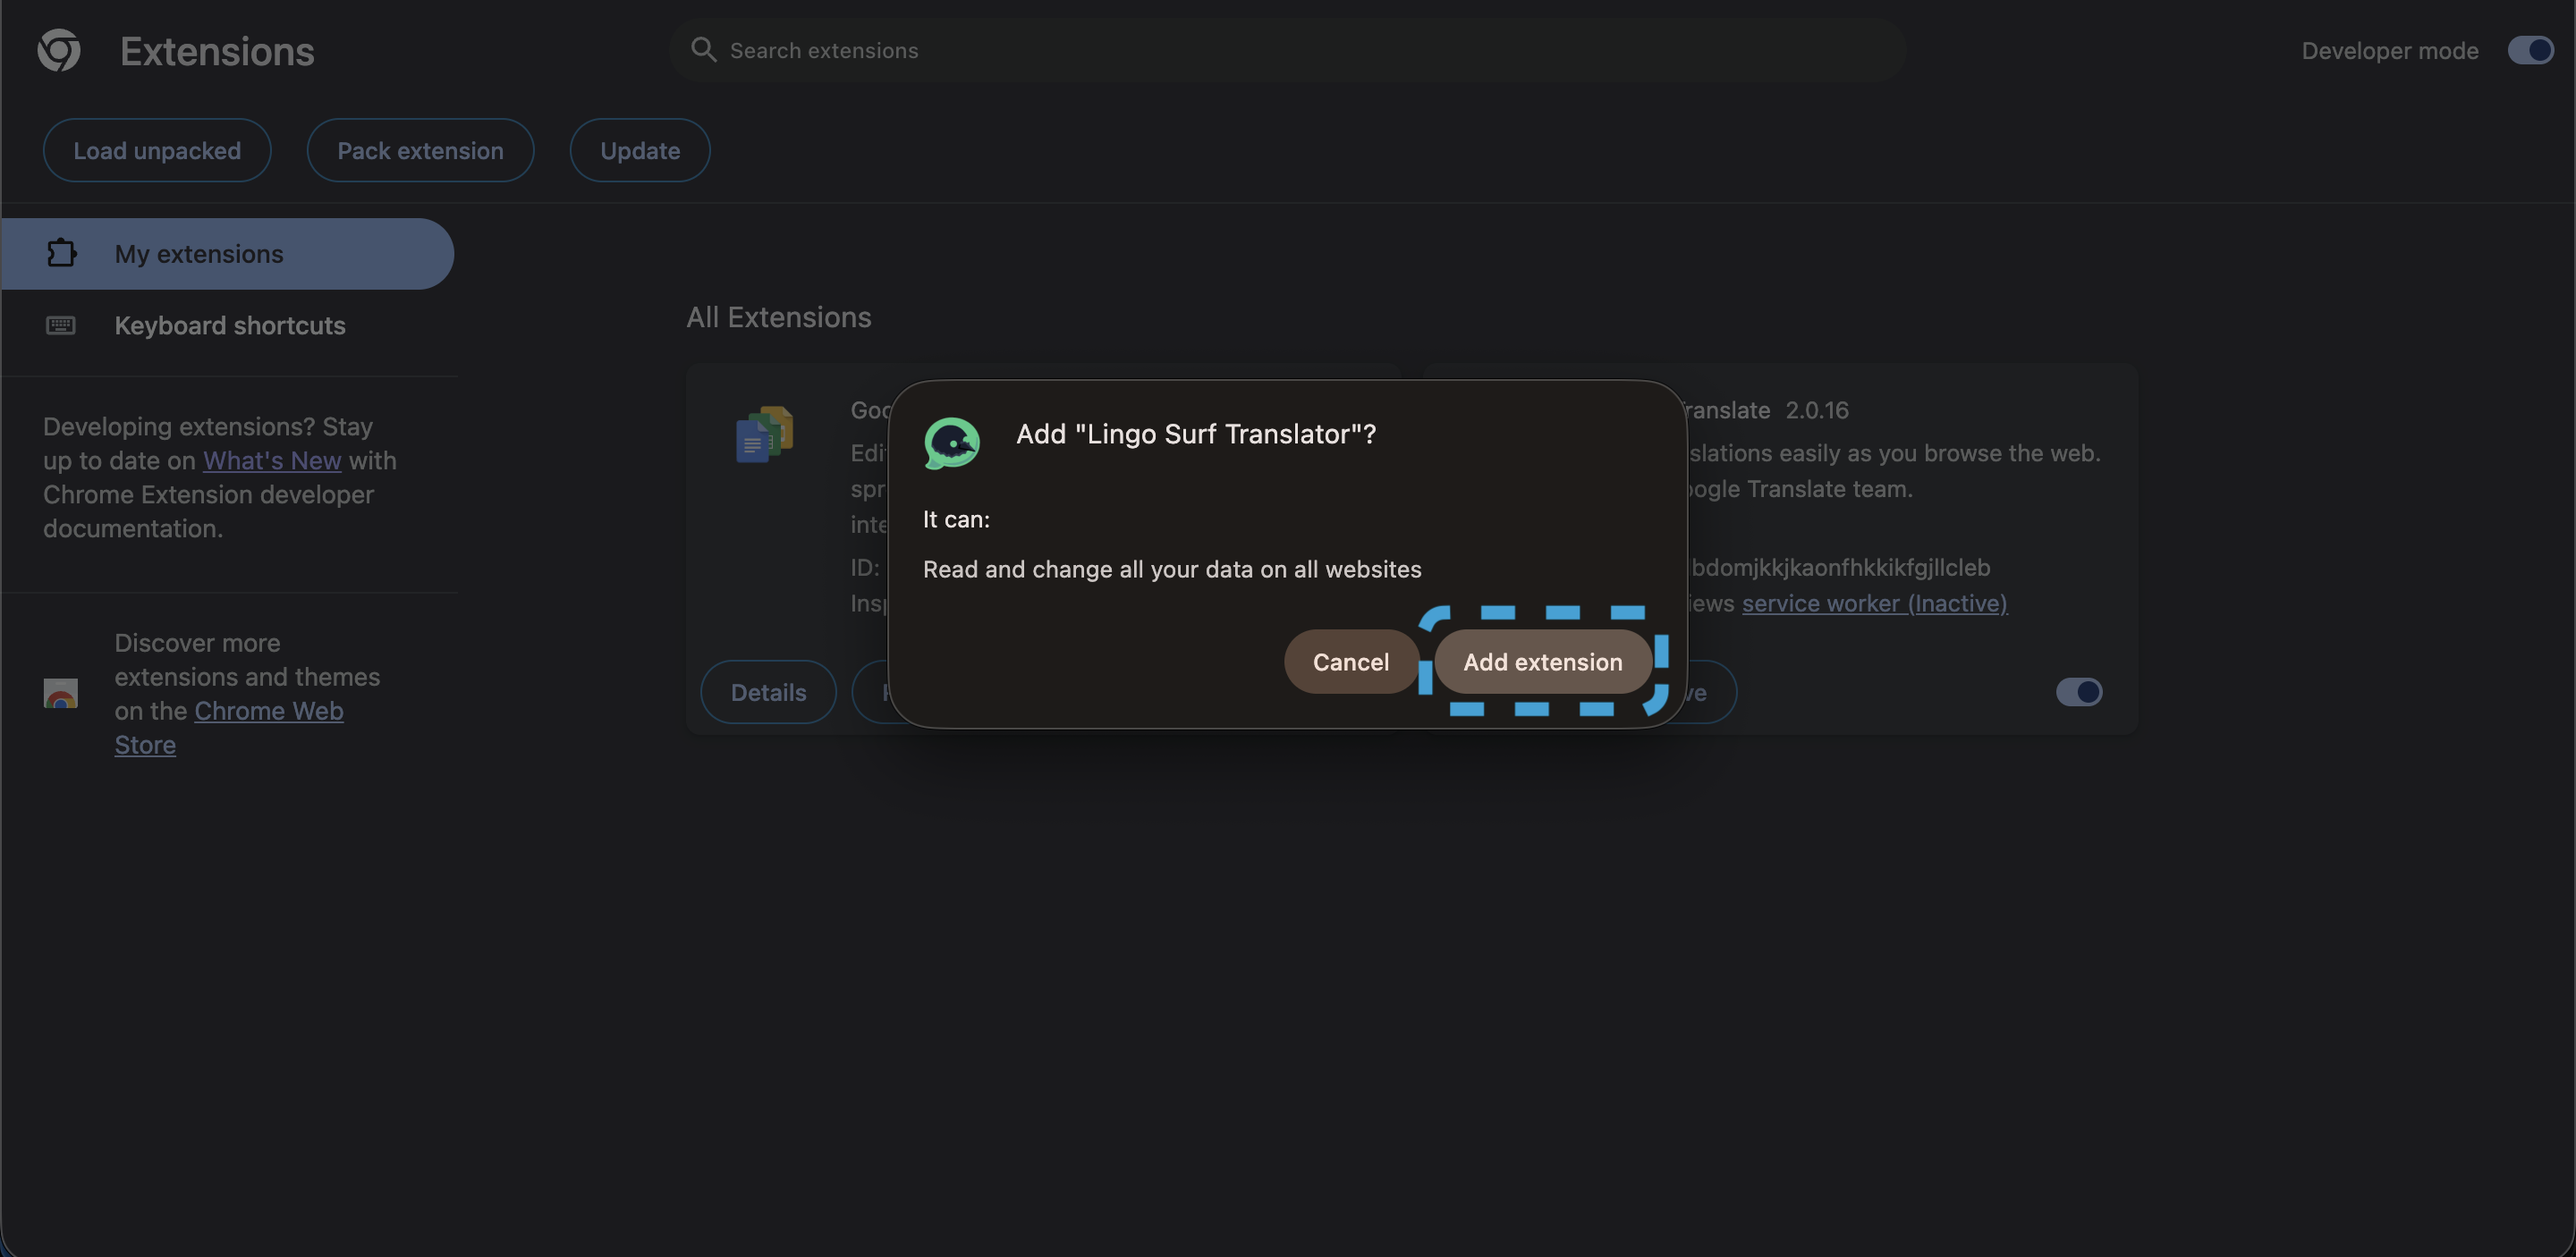
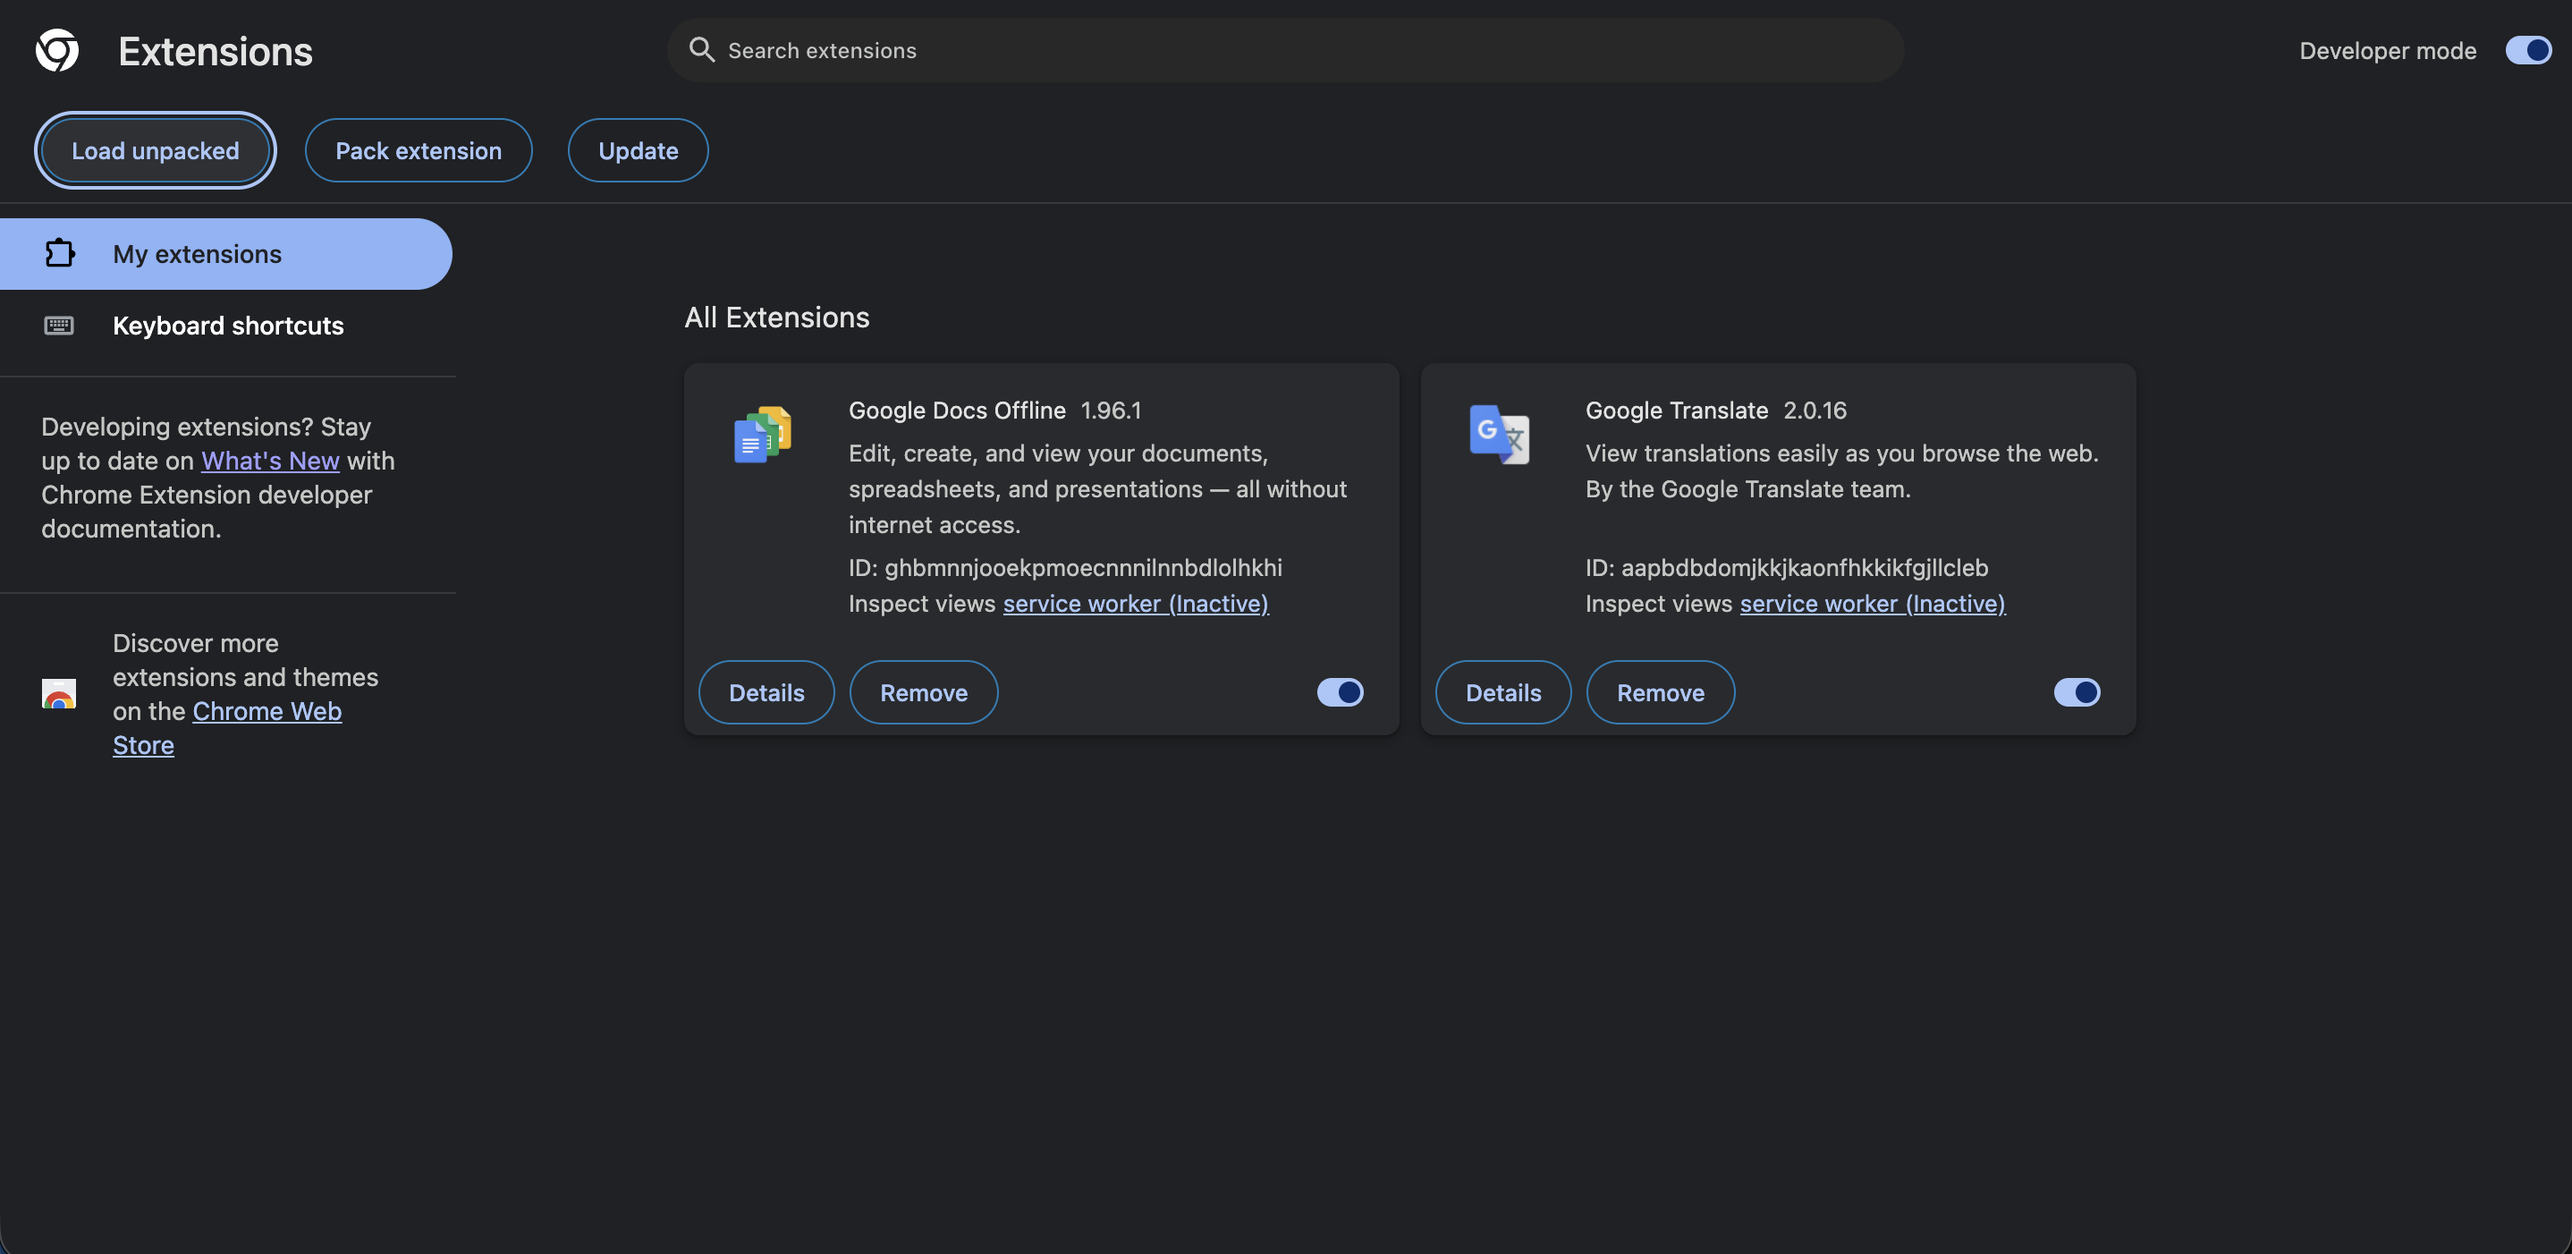
Update Installation guide

diff --git a/INSTALLATION.md b/INSTALLATION.md
@@ -8,15 +8,19 @@ This guide will walk you through the process of installing Lingo Surf.
 
 ---
 
-## Quick Download
+### Quick Download
 
-<a href="https://github.com/AatreyuShau/lingo-surf/releases/download/Release/chrome-extension.crx" download>
-<img src="docs/installation/Download crx.png" alt="Download raw file" width="600"/>
+<a href="https://github.com/AatreyuShau/lingo-surf/releases/download/Release/chrome-extension.zip" download .zip file>
 
 ## Step-by-Step Installation after downloading the .crx file
 
-### Step 1: Open Chrome Extensions Page
-<img src="docs/installation/Step1.png" alt="Open Chrome Extensions Page" width="600"/>
+### Step 1: Unpack .zip File
+<img src="docs/installation/Step1.png" alt="Expand zip" width="600"/>
+
+- Right click and 'Expand' your `.zip` file into your preferred location
+
+### Step 2: Open Chrome Extensions Page
+<img src="docs/installation/Step2.png" alt="Open Chrome Extensions Page" width="600"/>
 
 - Open Google Chrome
 - Type `chrome://extensions/` in the address bar
@@ -27,21 +31,18 @@ This guide will walk you through the process of installing Lingo Surf.
 - Switch it on
 - You'll see new options appear at the top of the page
 
-### Step 2: Load the Extension
-<img src="docs/installation/Step2.png" alt="Load the Extension" width="600"/>
+### Step 3: Load the Extension
+<img src="docs/installation/Step3.png" alt="Load unpacked" width="600"/>
+<img src="docs/installation/Step4.png" alt="Select folder" width="600"/>
 
 - Click the "Load unpacked" button
 - Navigate to the `chrome-extension` folder inside the downloaded/cloned repository
 - Select the folder (don't go inside it, just select the folder itself)
 - Click "Select Folder" (macOS) or "Select" (Windows)
 
-### Step 3: Verify Installation
-<img src="docs/installation/Step3.png" alt="Accept" width="600"/>
-<img src="docs/installation/Step4.png" alt="Click Three dots" width="600"/>
-<img src="docs/installation/Step5.png" alt="Verify Installation" width="600"/>
+---
 
-- You should see "Lingo Surf" appear in your extensions list
-- The extension icon should appear in your Chrome toolbar
+### Misc;
 - If you don't see the icon, click the puzzle piece icon to find it
 - Pin it to your toolbar for easy access
 
@@ -49,14 +50,14 @@ This guide will walk you through the process of installing Lingo Surf.
 
 ## Alternative Installation
 
-   - Download the `.zip` file
-    >> <a href="https://github.com/AatreyuShau/lingo-surf/releases/download/Release/chrome-extension.zip" download>
-        Download Extension (.zip)
+   - Download the `.crx` file
+    >> <a href="https://github.com/AatreyuShau/lingo-surf/releases/download/Release/chrome-extension.crx" download>
+        Download Extension (.crx)
     </a>
-   - Expand the `.zip` file in your file-explorer
    - Open Chrome and go to `chrome://extensions`
    - Turn on `Developer Mode`
-   - Drag the `.zip` file in
+   - Drag the `.crx` file in
+   - click the ` ⠇ ` and press *`Keep this Extension`*
 
 ---
 

diff --git a/README.md b/README.md
@@ -21,19 +21,6 @@ A sleek Chrome extension for seamless language learning while you surf the web. 
 
 ## Installation
 
-   - Download the `.crx` file
-    >> <a href="https://github.com/AatreyuShau/lingo-surf/releases/download/Release/chrome-extension.crx" download>
-        Download Extension (.crx)
-    </a>
-   - Open Chrome and go to `chrome://extensions`
-   - Turn on `Developer Mode`
-   - Drag the `.crx` file in
-   - click the ` ⠇ ` and press *`Keep this Extension`*
-
- > For a more detailed guide check the ![Installation Guide](https://github.com/AatreyuShau/lingo-surf/blob/main/INSTALLATION.md)
-
- ## Alternative Installation
-
    - Download the `.zip` file
     >> <a href="https://github.com/AatreyuShau/lingo-surf/releases/download/Release/chrome-extension.zip" download>
         Download Extension (.zip)
@@ -41,7 +28,10 @@ A sleek Chrome extension for seamless language learning while you surf the web. 
    - Expand the `.zip` file in your file-explorer
    - Open Chrome and go to `chrome://extensions`
    - Turn on `Developer Mode`
-   - Drag the `.zip` file in
+   - Click on the `Load Unpacked` button on the top-left
+   - Load the unpacked folder
+
+ > For a more detailed guide check the ![Installation Guide](https://github.com/AatreyuShau/lingo-surf/blob/main/INSTALLATION.md)
 
 ## How to Use
 
